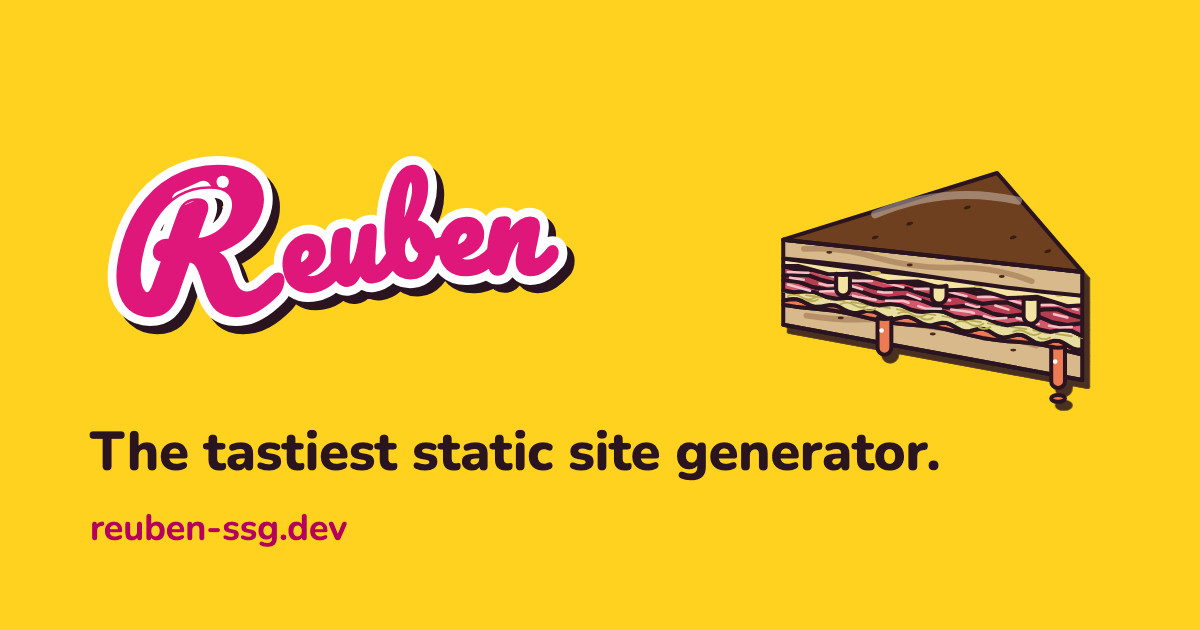
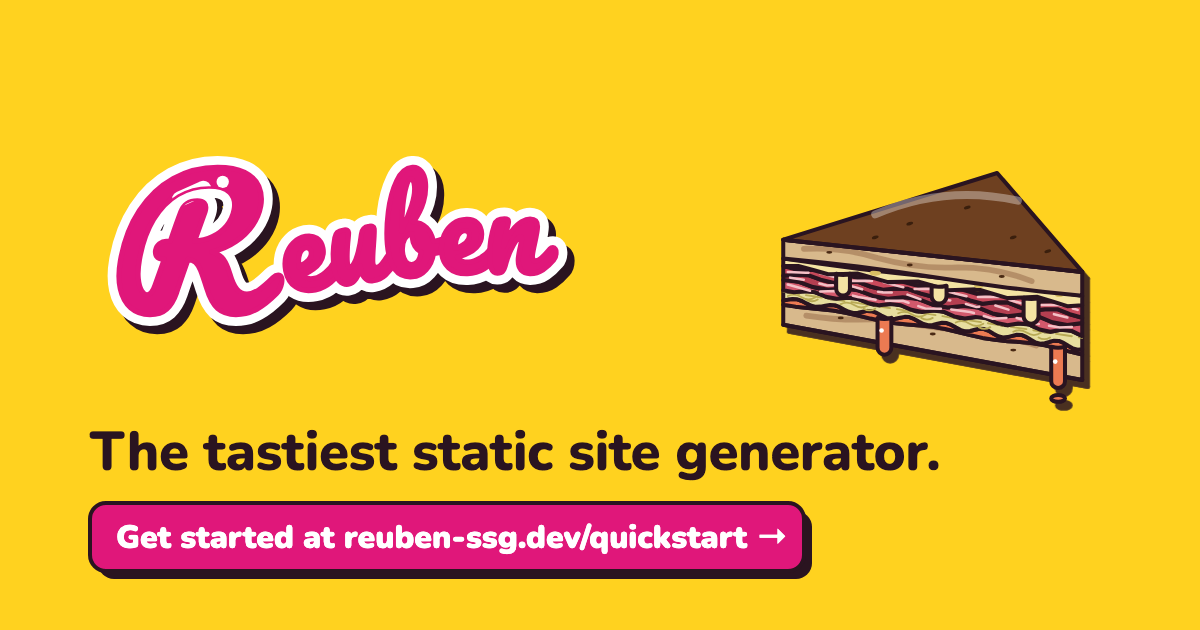
docs(home): shorten the description and point the share image at the Quickstart (#8)
The 169-character description was cut off in search results and link previews; the new one is 121 characters. The share image's last line is now a button-style "Get started at reuben-ssg.dev/quickstart", and its alt text says so.

Assisted-by: AI

Changed region(s): [[0.0617, 0.7841, 0.6783, 0.9349]]

diff --git a/content/index.md b/content/index.md
@@ -1,7 +1,7 @@
 ---
 title: Reuben
 head_title: "Reuben: the tastiest static site generator"
-description: "The tastiest static site generator: Markdown with Rhai scripting, every build error in one run, accessibility checks on every build, and no JavaScript unless you add it."
+description: "The tastiest static site generator: Markdown with Rhai scripting, accessibility checks, and every build error in one run."
 layout: home
 ---
 
